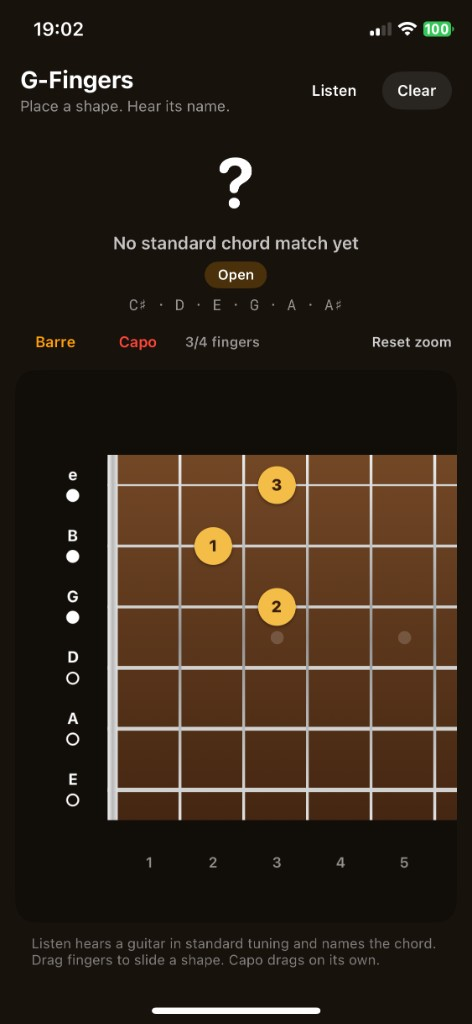
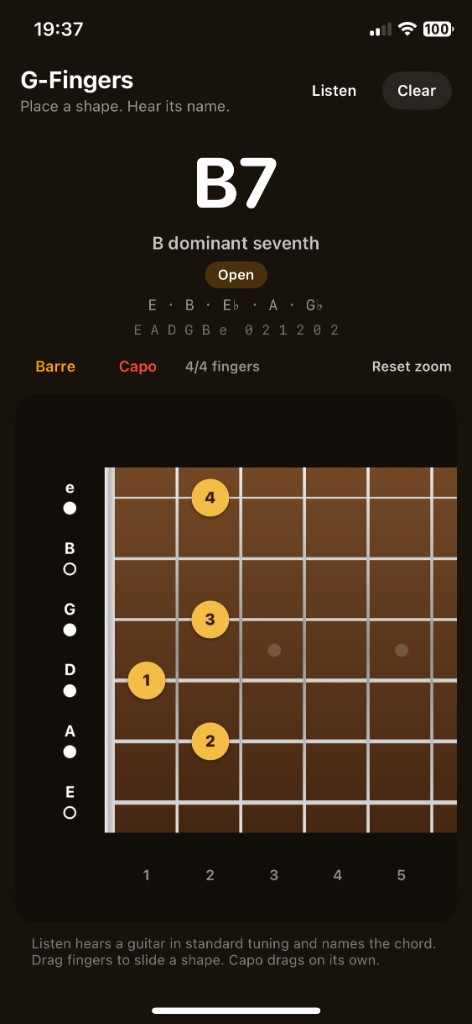
Use the open B7 screenshot in the README.

diff --git a/README.md b/README.md
@@ -7,7 +7,7 @@ The Home Screen name is **G-Fingers**. The Xcode project is `GFingers`.
 It runs on **iOS 16.7 and later** (including iPhone X). Standard tuning only: E A D G B e.
 
 <p align="center">
-  <img src="docs/g-fingers.jpg" alt="G-Fingers on iPhone: high e on top, nut on the left, three fingers on the neck and the chord name in the HUD" width="320" />
+  <img src="docs/g-fingers.jpg" alt="G-Fingers on iPhone naming an open B7, with high e on top and the nut on the left" width="320" />
 </p>
 
 ## What you can do
